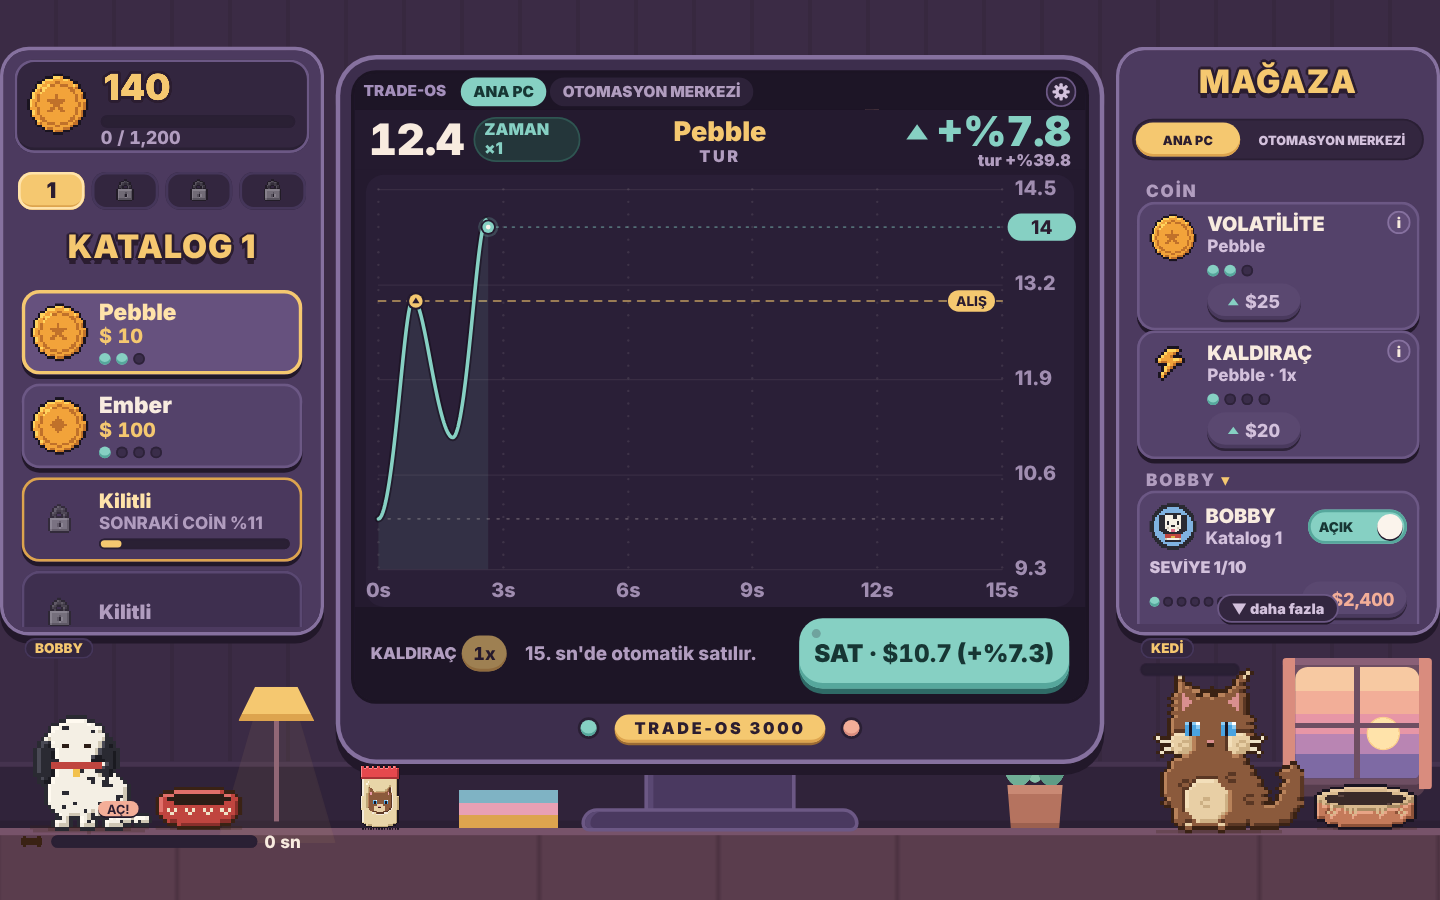
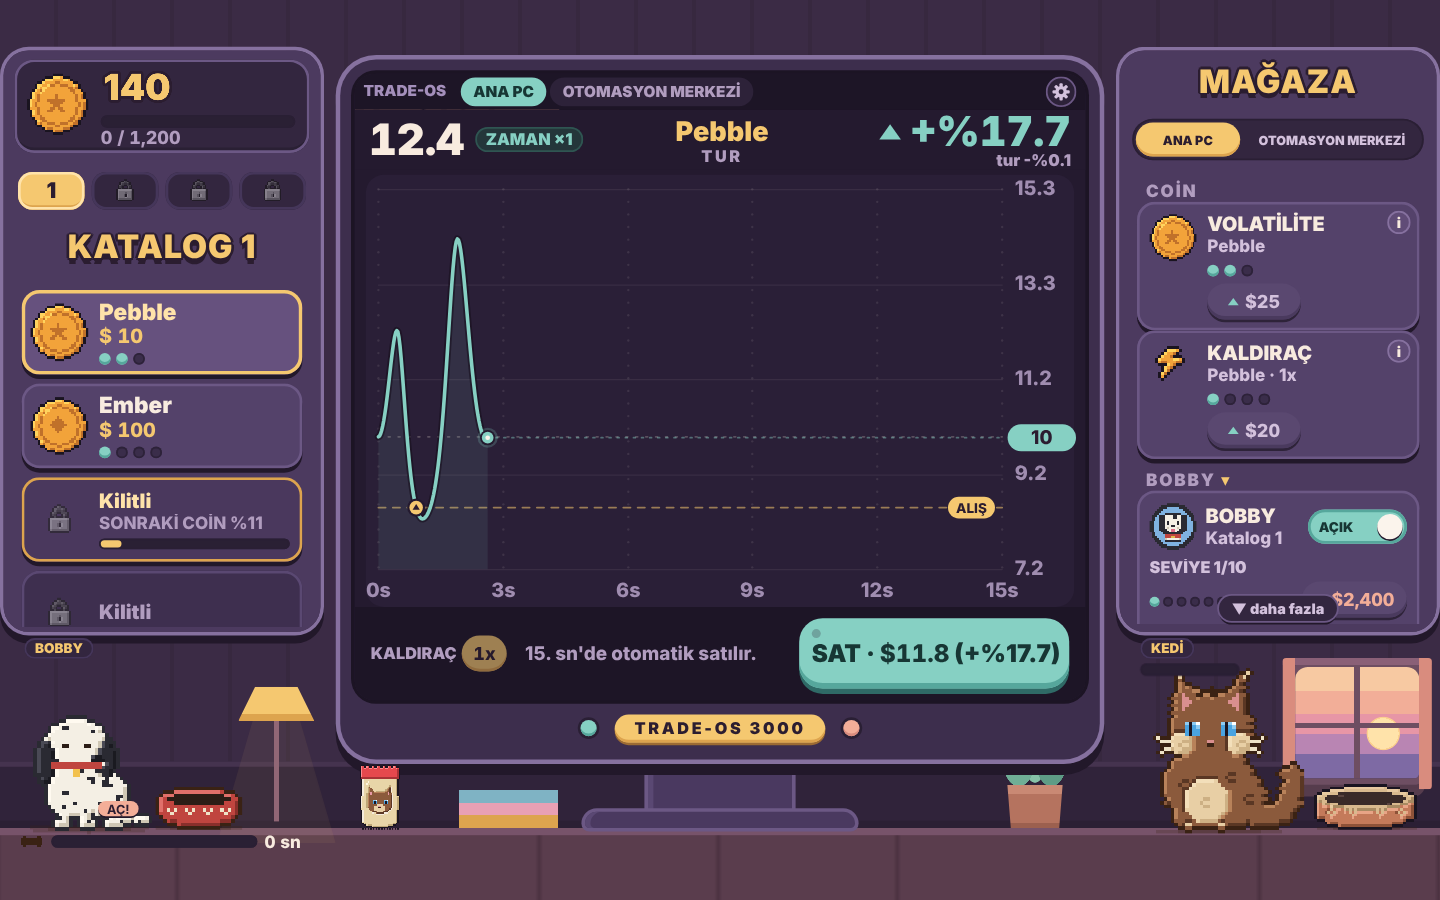
Tasarım Tur1: konsept ara kayıt
Claude-Session: https://claude.ai/code/session_01VDVDeJVYoXzWZHeVKGLAfX

diff --git a/tasarim/konsept-2/index.html b/tasarim/konsept-2/index.html
@@ -780,6 +780,8 @@ html body .tk .ci:not(.lkic),html body #right .sc[data-k=cup] .si img,html body 
 html body #cico{padding:4px!important}
 /* geniş ekranda (telefon) monitör yazıları bir tık büyük */
 #stage.k2w #note{font-size:23px}#stage.k2w #lvr{font-size:18px}#stage.k2w .osbar .tabs button{font-size:18px}#stage.k2w #lcdT{font-size:17px}html body #lcdT{white-space:nowrap}#stage.k2w #lcdS{font-size:17px}#stage.k2w #hP2{font-size:18px}
+html body #right .sc .sm b,html body #right .sc .sm .st{white-space:normal!important;text-overflow:clip!important;line-height:1.15!important}
+html body #right .sc .si{width:50px;height:50px}
 </style>
 </head><body>
 <div id="stage"><div class="floor f1"></div><div class="floor f2"></div>
